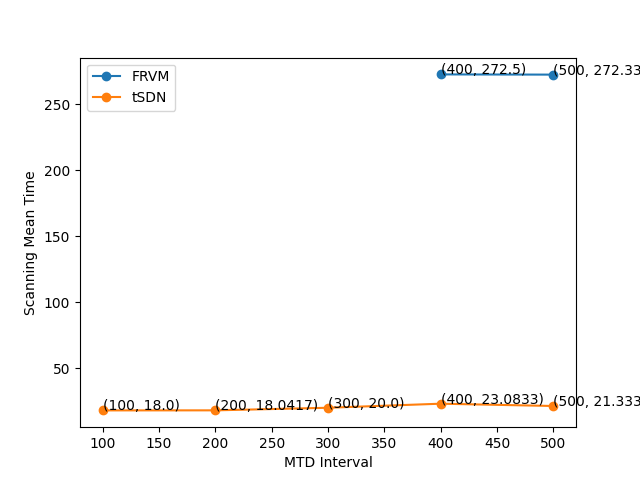
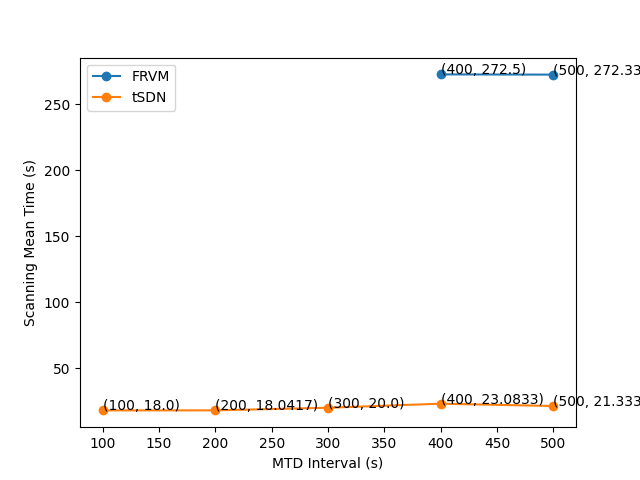
added unit to axis label

Changed region(s): [[0.4062, 0.9375, 0.5938, 1.0], [0.0312, 0.3438, 0.0625, 0.6875]]

diff --git a/visualizer.py b/visualizer.py
@@ -35,11 +35,11 @@ class Visualizer:
             "nmap_Time500_ScansS_Portdiscovered",
         ]
         self.x_axis = [100,200,300,400,500]
-        self.x_label = "MTD Interval"
+        self.x_label = "MTD Interval (s)"
         self.y_label = {
             "scanning_success_probability":"Scanning Success Probability",
-            "scanning_mean_min_of_all":"Scanning Mean Time",
-            "scanning_mean_min_each_port":"Scanning Mean Time",
+            "scanning_mean_min_of_all":"Scanning Mean Time (s)",
+            "scanning_mean_min_each_port":"Scanning Mean Time (s)",
         }
 
     def read_analysis_result(self):
